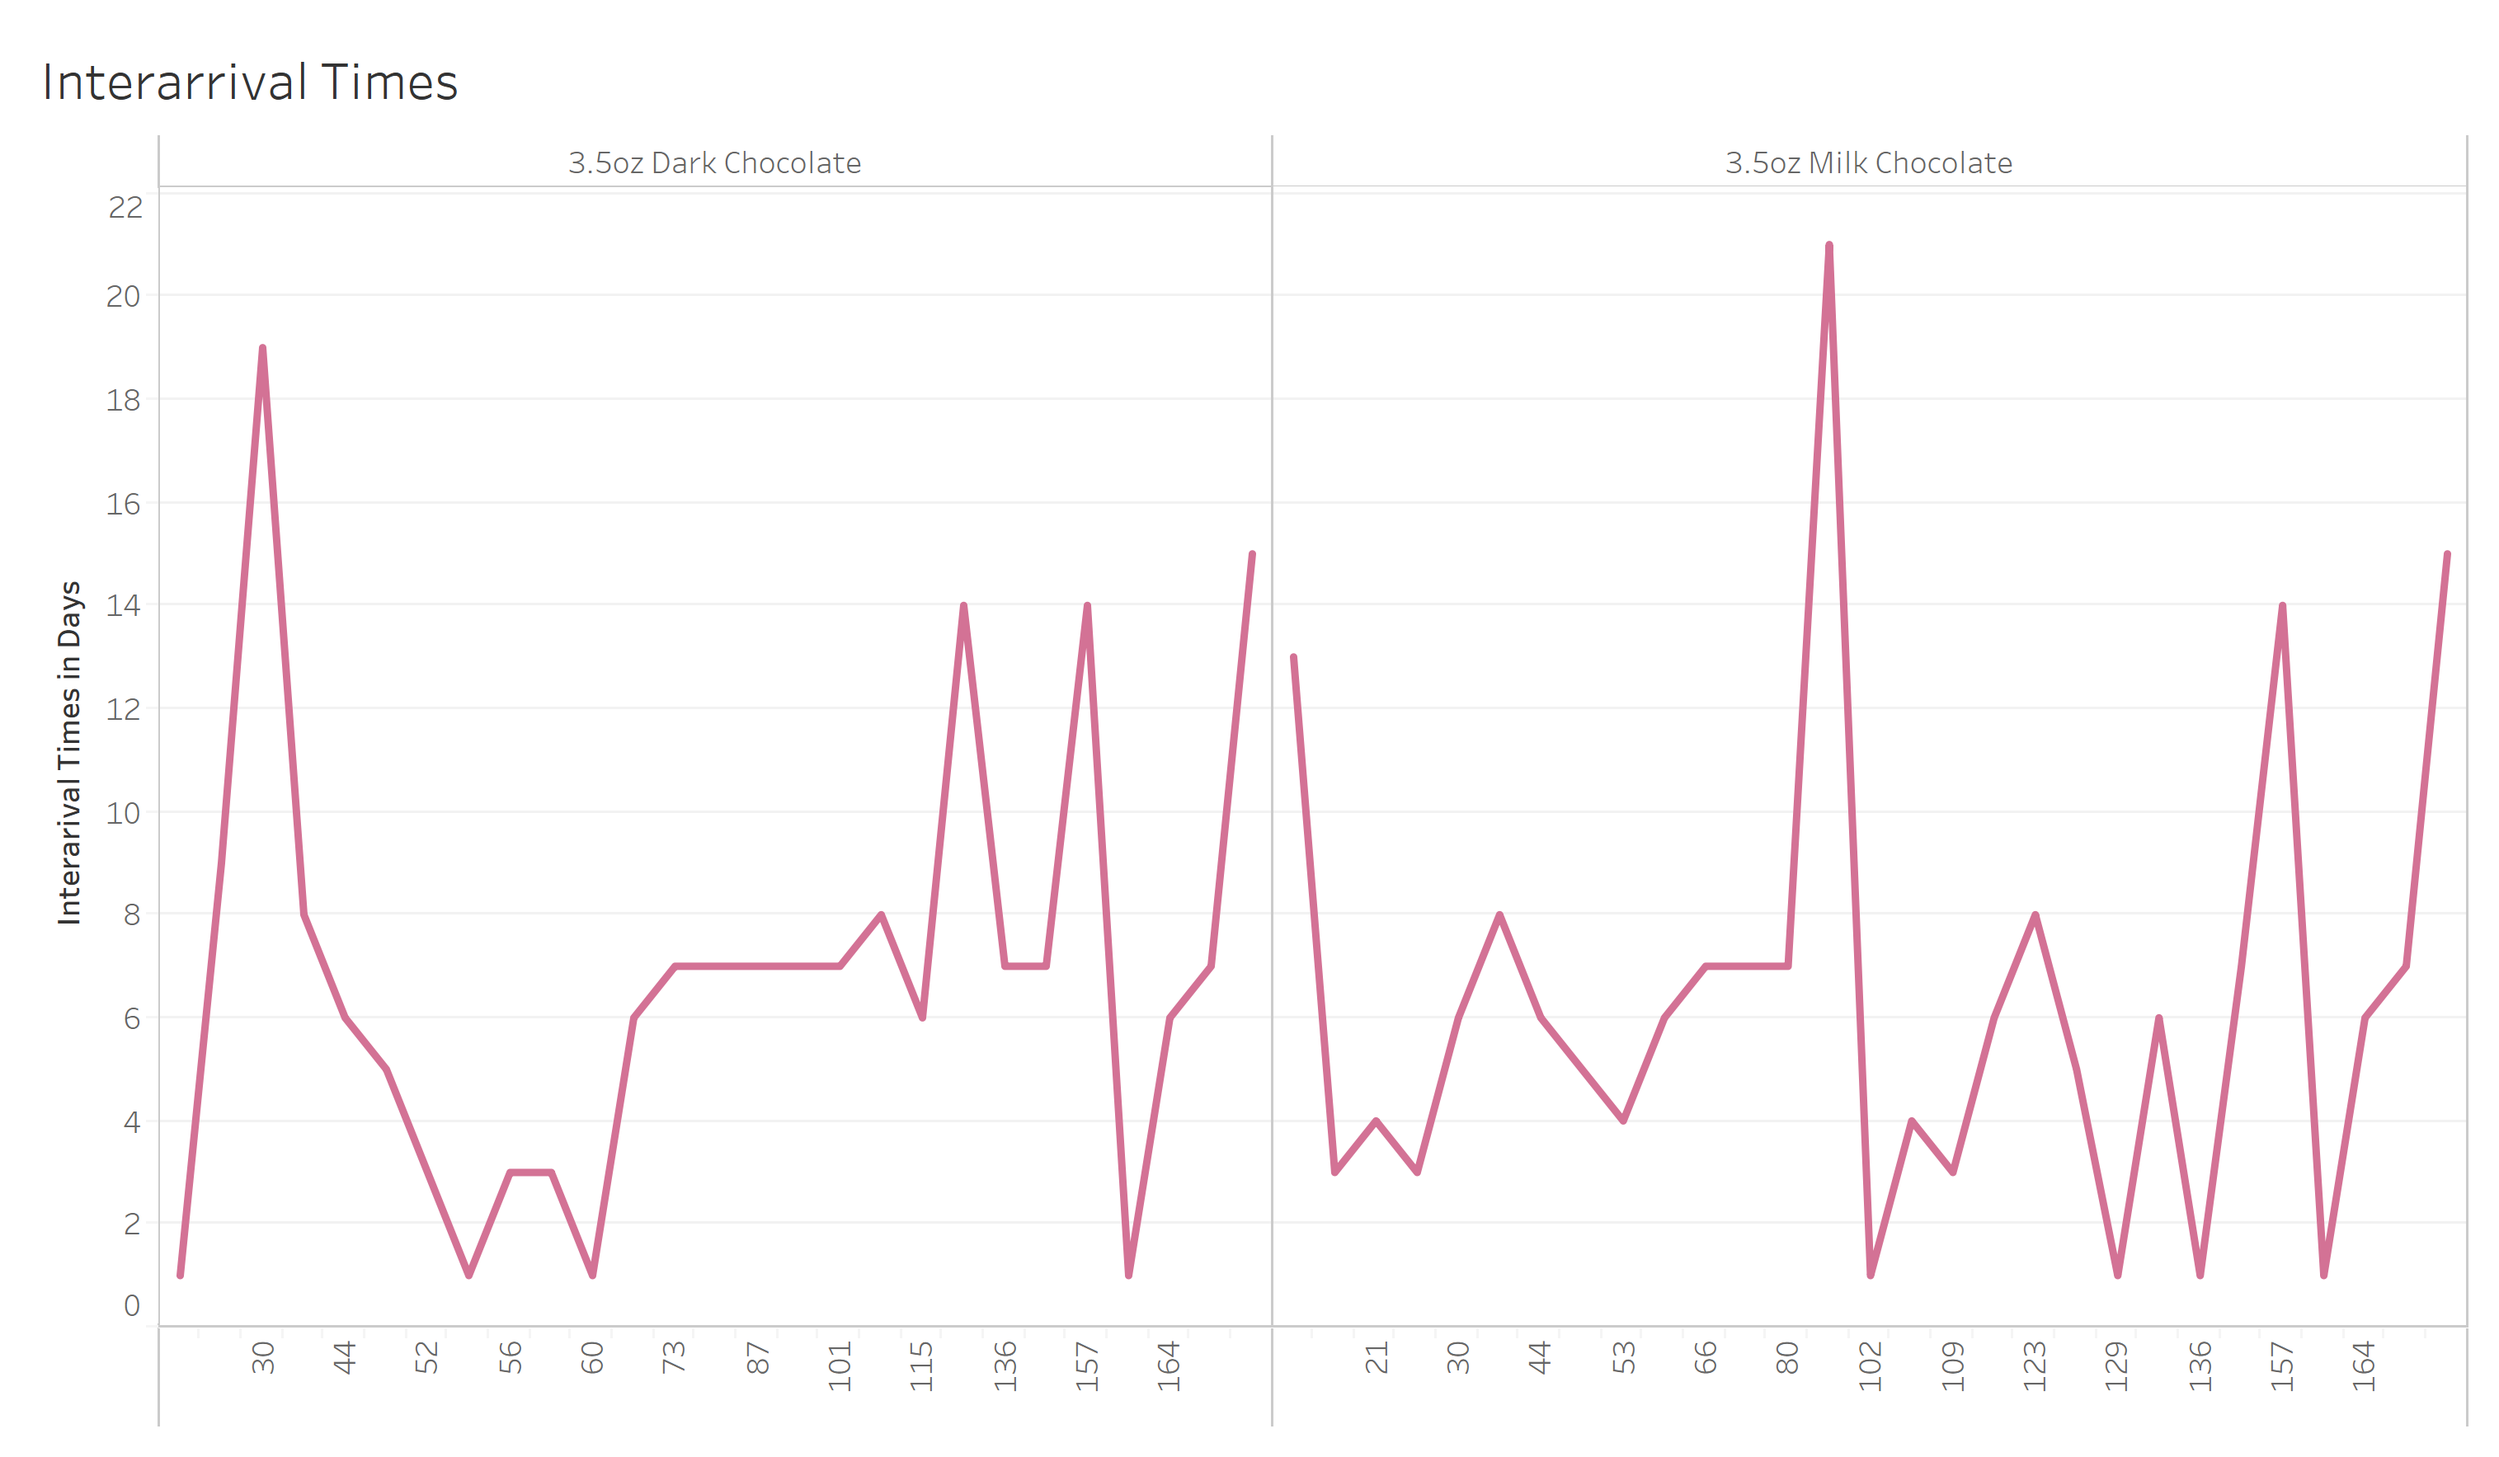
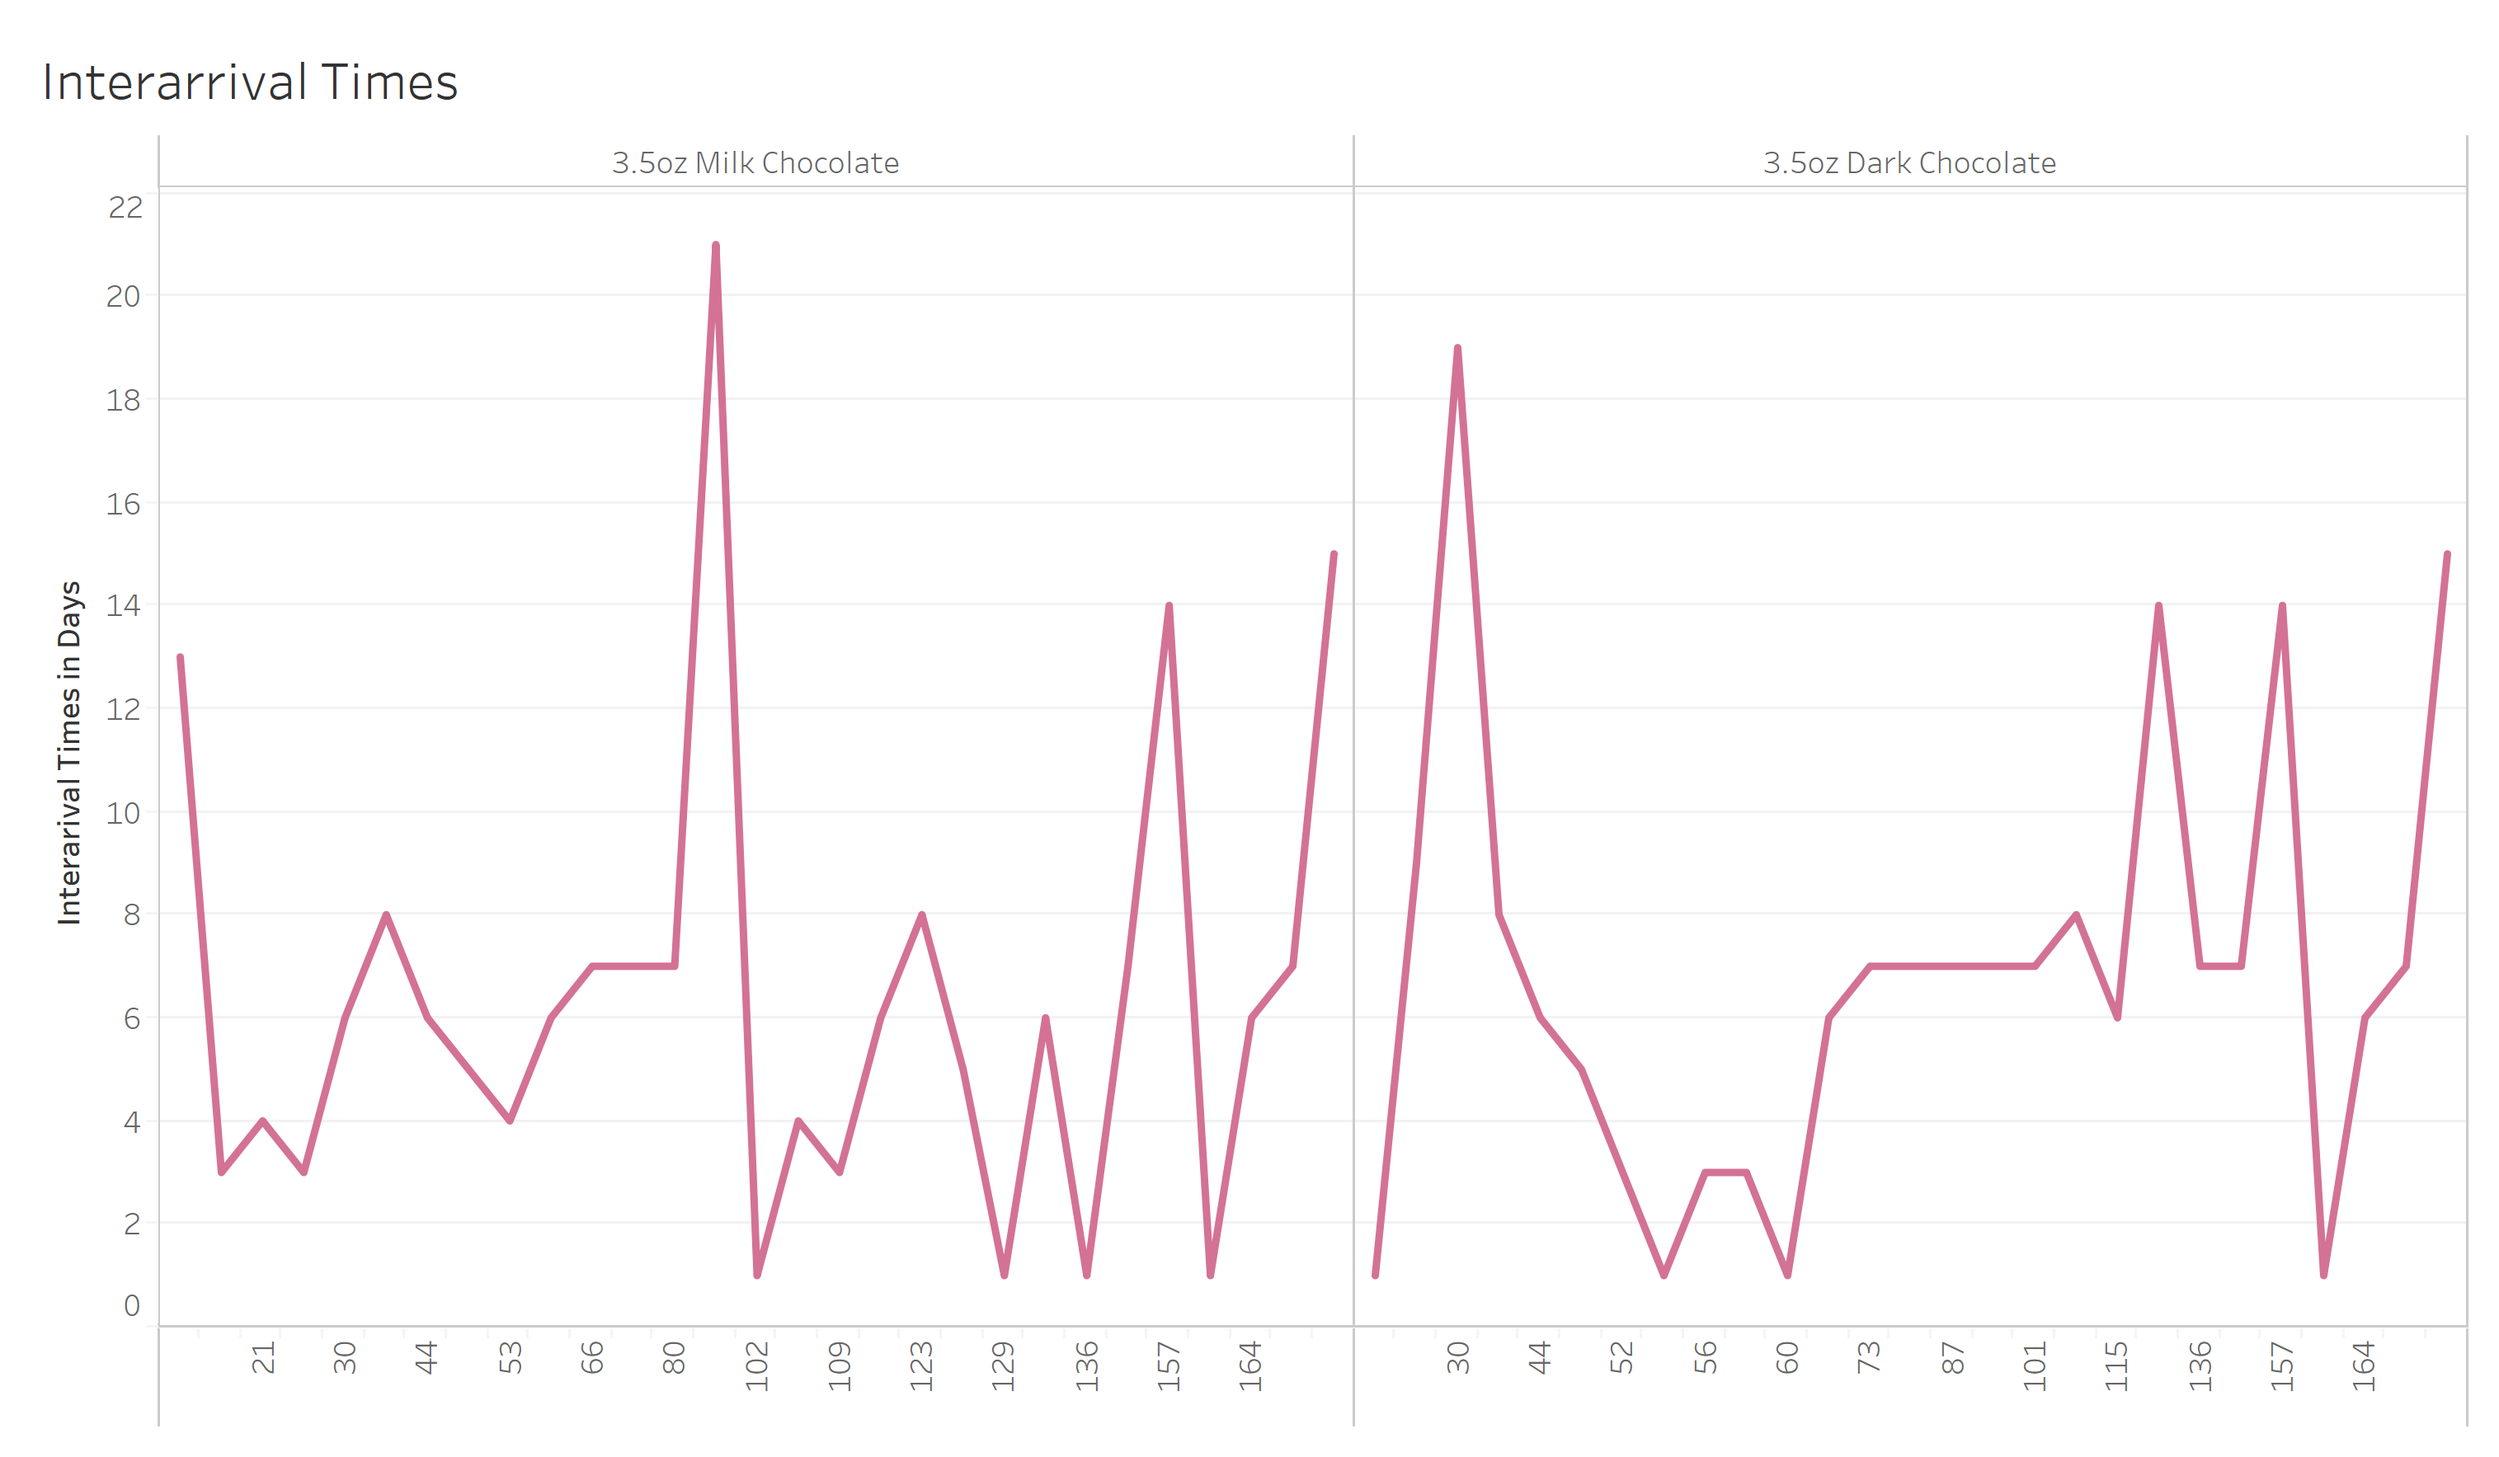
Updated interarrival_times.png

diff --git a/_posts/2020-4-10-Multi-Period Inventory Planning with Stochastic Demand Using Python.md b/_posts/2020-4-10-Multi-Period Inventory Planning with Stochastic Demand Using Python.md
@@ -326,13 +326,19 @@ days in average.
 
 | Product | Average Interarrival Time Days | Interarrival Time Standard Dev. Days | Interarrival Time CoV | 
 |-------|-------|-------|-------|
-| 3.5oz Dark Chocolate | 6.8 | 4.4| 0.64 |
 | 3.5oz Milk Chocolate | 6.3 | 4.5|	0.70 |
+| 3.5oz Dark Chocolate | 6.8 | 4.4| 0.64 |
 
 The following Python code calculates the distribution fitting for
 interarrival times. 
 
- 
+products = interarrivals['Product'].unique()
+distribution_data_by_product = interarrivals.copy()
+best_distribution_by_product, pvalues_by_product = fit_simulation_data(products, 
+                                                                       distribution_names, 
+                                                                       distribution_data_by_product,
+                                                                      'Interarival Times in Days') 
+
 
 ### Order Amount
 
